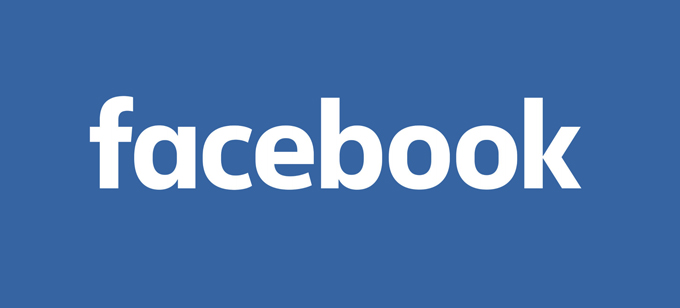
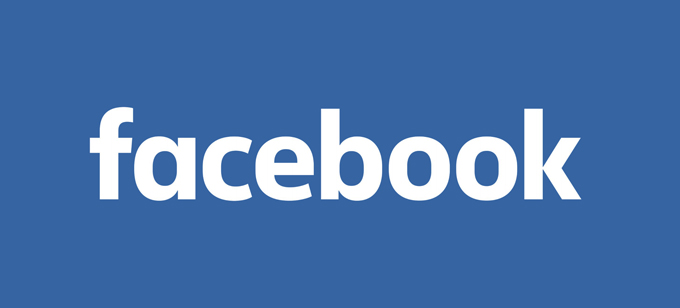
facebook reallign + text

Changed region(s): [[0.1235, 0.2922, 0.8647, 0.6721], [0.4632, 0.2922, 0.525, 0.3506], [0.7721, 0.2922, 0.8029, 0.3506]]

diff --git a/index.html b/index.html
@@ -37,7 +37,7 @@
 			<section id="banner">
 				<div class="inner">
 					<h2>Welcome to AUS Smash</h2>
-					<p>An ONLINE and OFFLINE community dedicated to playing games they love</p>
+					<p>An ONLINE and OFFLINE community dedicated to playing the games that they love</p>
 
 				</div>
 			</section>
@@ -45,7 +45,7 @@
 		<!-- One -->
 			<section id="one" class="wrapper style1">
 				<header class="major">
-					<h2>Ipsum feugiat consequat</h2>
+					<h2>What AUS SMASH is about</h2>
 					<p>Tempus adipiscing commodo ut aliquam blandit</p>
 				</header>
 				<div class="container">
